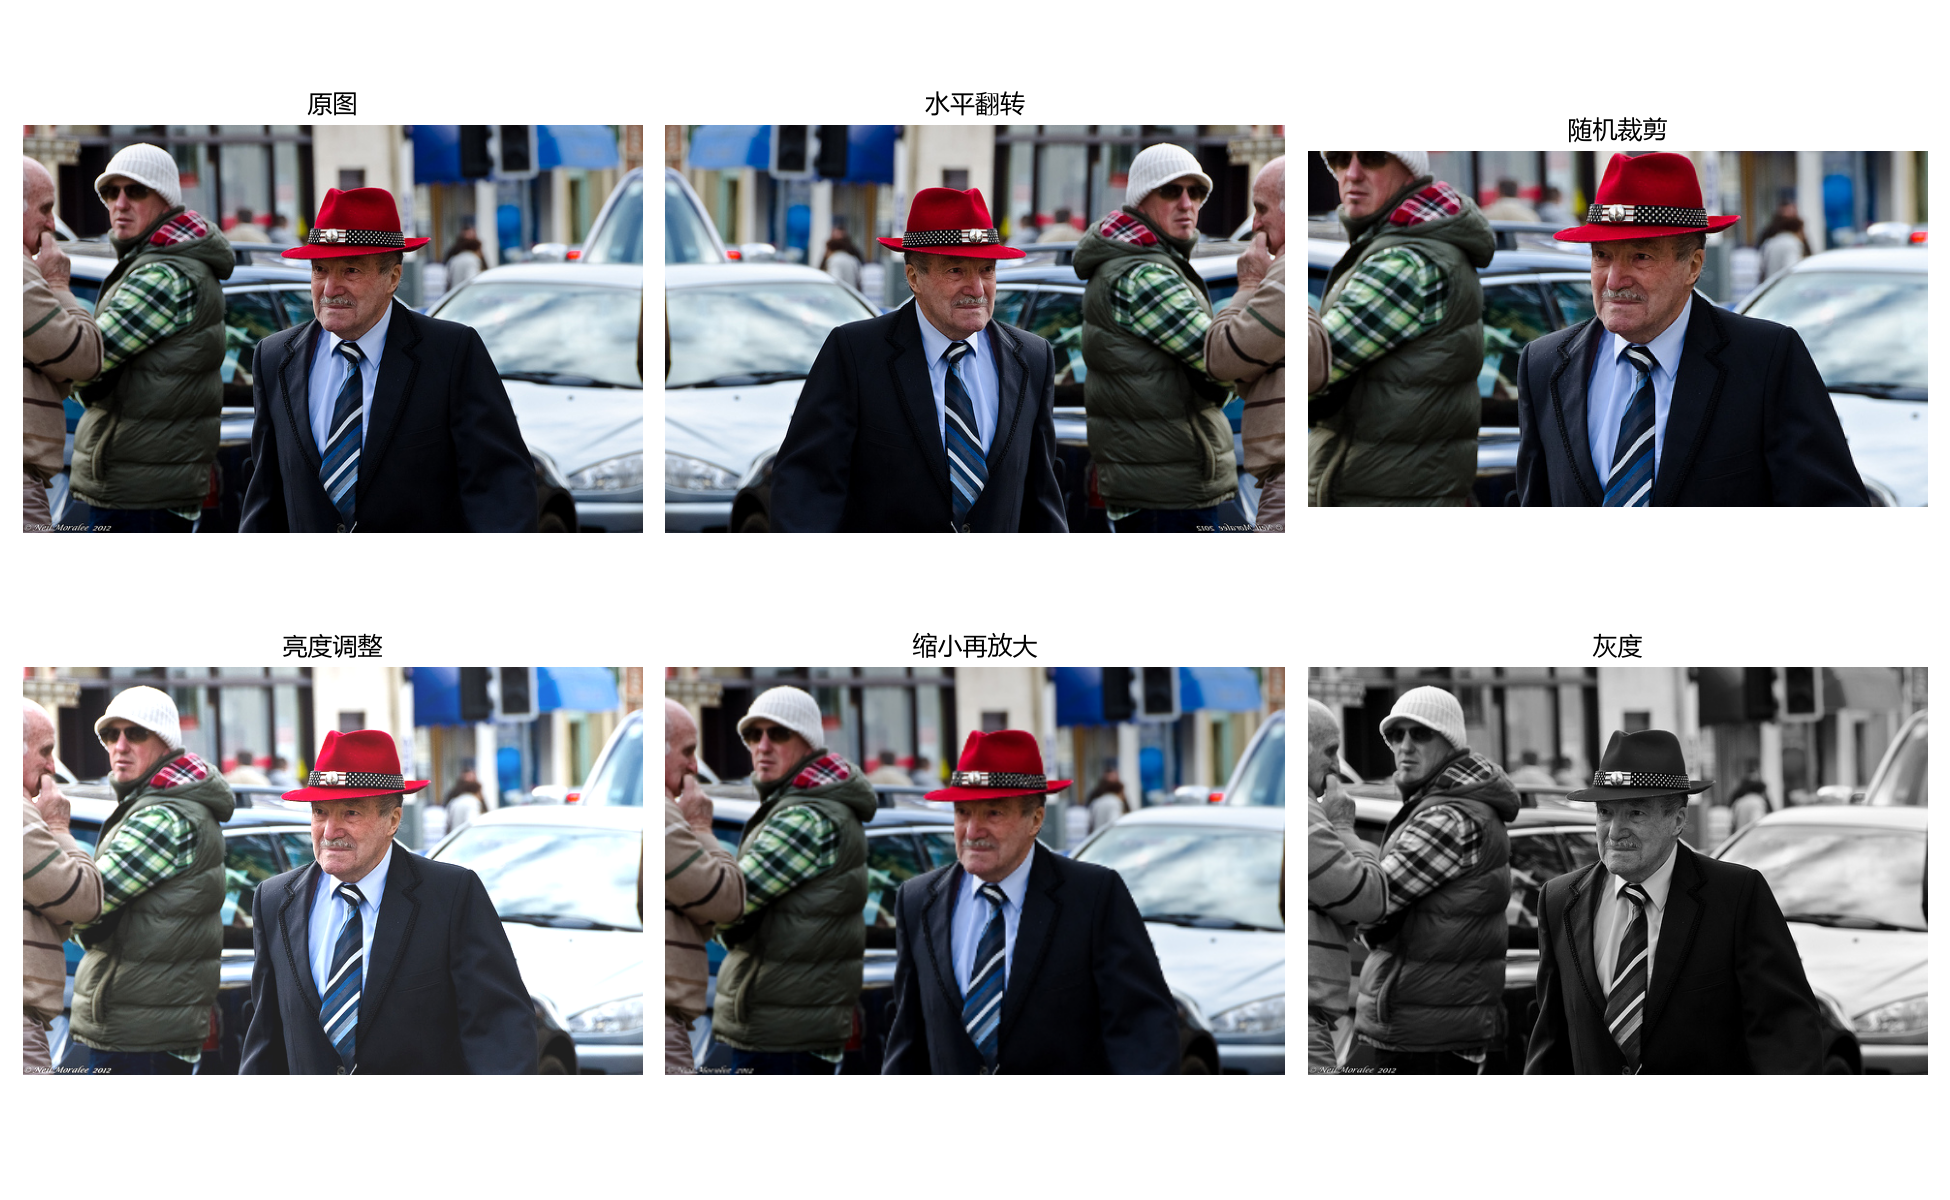
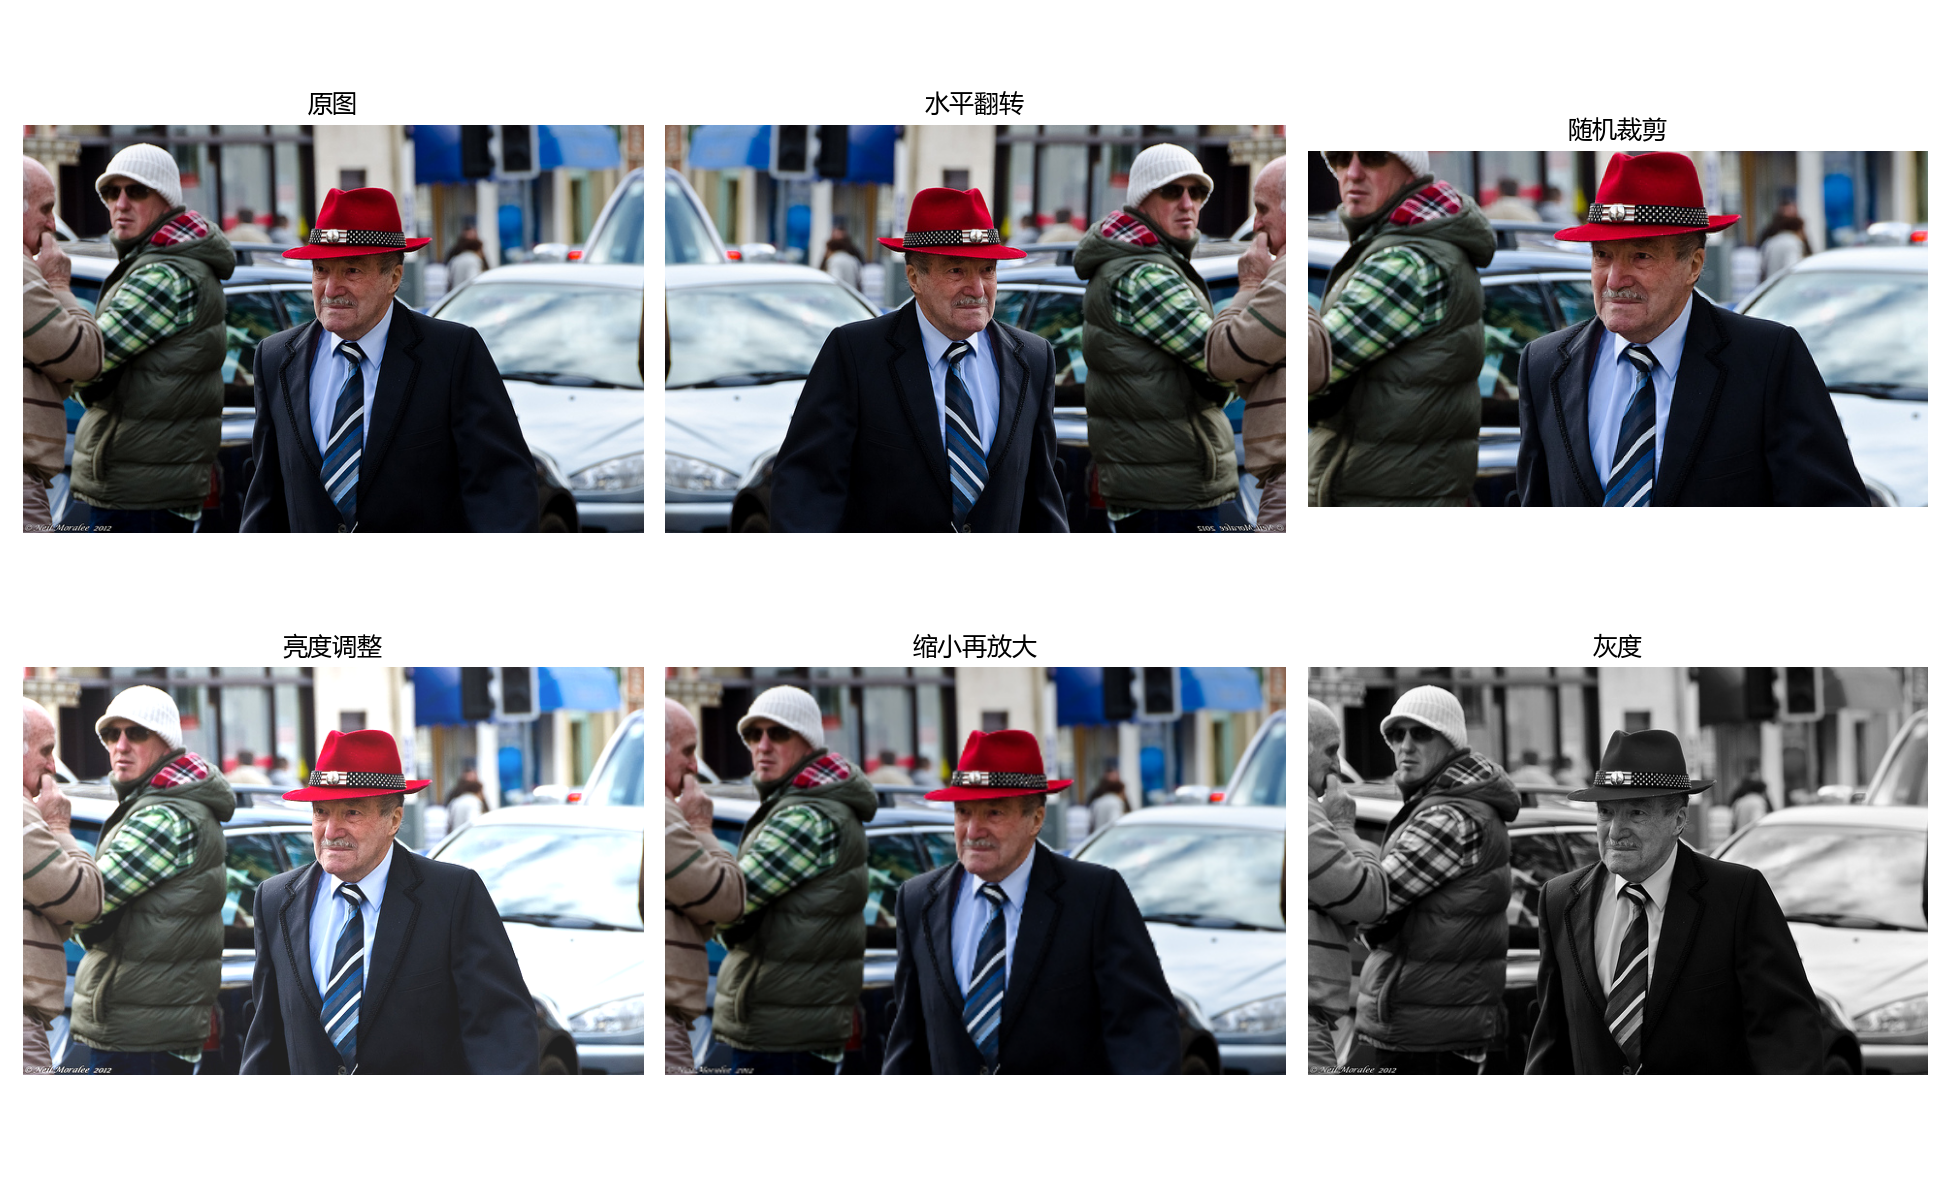
删除重复的小分类器与无关的安全帽图

diff --git a/docs/对比实验报告.md b/docs/对比实验报告.md
@@ -71,10 +71,11 @@
 - 要描述场景、用自然语言回答：用多模态大模型。
 - 单纯比计数准确率，两者接近，没有明显赢家。
 
-## 8. OpenCV 与 PyTorch 的使用
+## 8. OpenCV 的使用
 
-- **OpenCV**：读图、缩放、画检测框和分割掩膜、保存结果；另外用 `cv2` 做了翻转、裁剪、亮度、灰度、缩放的增强对比图，见 `figures/augmentation_demo.png`。
-- **PyTorch / torchvision**：用 `RandomResizedCrop`、`RandomHorizontalFlip` 做增强，`DataLoader` 加载车辆裁剪图，训练了一个四分类小模型（car/truck/bus/motorcycle）。数据是 40 张测试图里裁出的 169 个车辆，验证准确率 65.6%。这部分主要用于展示训练流程，不是项目核心，结果见 `figures/classifier_curves.png` 和 `figures/classifier_confusion.png`。
+- 读图、缩放、画检测框和分割掩膜、保存结果。
+- 用 `cv2` 做了翻转、裁剪、亮度、灰度、缩放的增强对比图，见 `figures/augmentation_demo.png`。
+- PyTorch 的训练流程见第 9 节微调实验。
 
 ## 9. 微调实验（补充）
 

diff --git a/README.md b/README.md
@@ -28,7 +28,6 @@ stage2/
 │   ├── evaluate.py               # 对比指标
 │   ├── compare.py                # 并排对比图
 │   ├── augment.py                # OpenCV 增强演示
-│   └── vehicle_classifier.py     # 小分类器训练演示
 ├── scripts/
 │   ├── prepare_coco.py           # 准备数据
 │   └── demo_yolo_sam.py          # 检测 + 分割演示
@@ -96,7 +95,7 @@ YOLO 快、能给出位置框；大模型平均误差略低，能描述场景。
 | 学习内容 | 在项目里 |
 |---|---|
 | OpenCV | 读图、缩放、画框、画掩膜、翻转/裁剪/亮度增强（`src/augment.py`） |
-| PyTorch | torch 张量推理；torchvision 增强 + DataLoader + 训练循环（`src/vehicle_classifier.py`） |
+| PyTorch | torch 张量推理；用预训练 YOLO26 做微调（见报告第 9 节） |
 | YOLO | 车辆检测 |
 | SAM | 框提示分割 |
 | Transformer / 多模态大模型 | GLM-4V 调用与 JSON 输出 |
